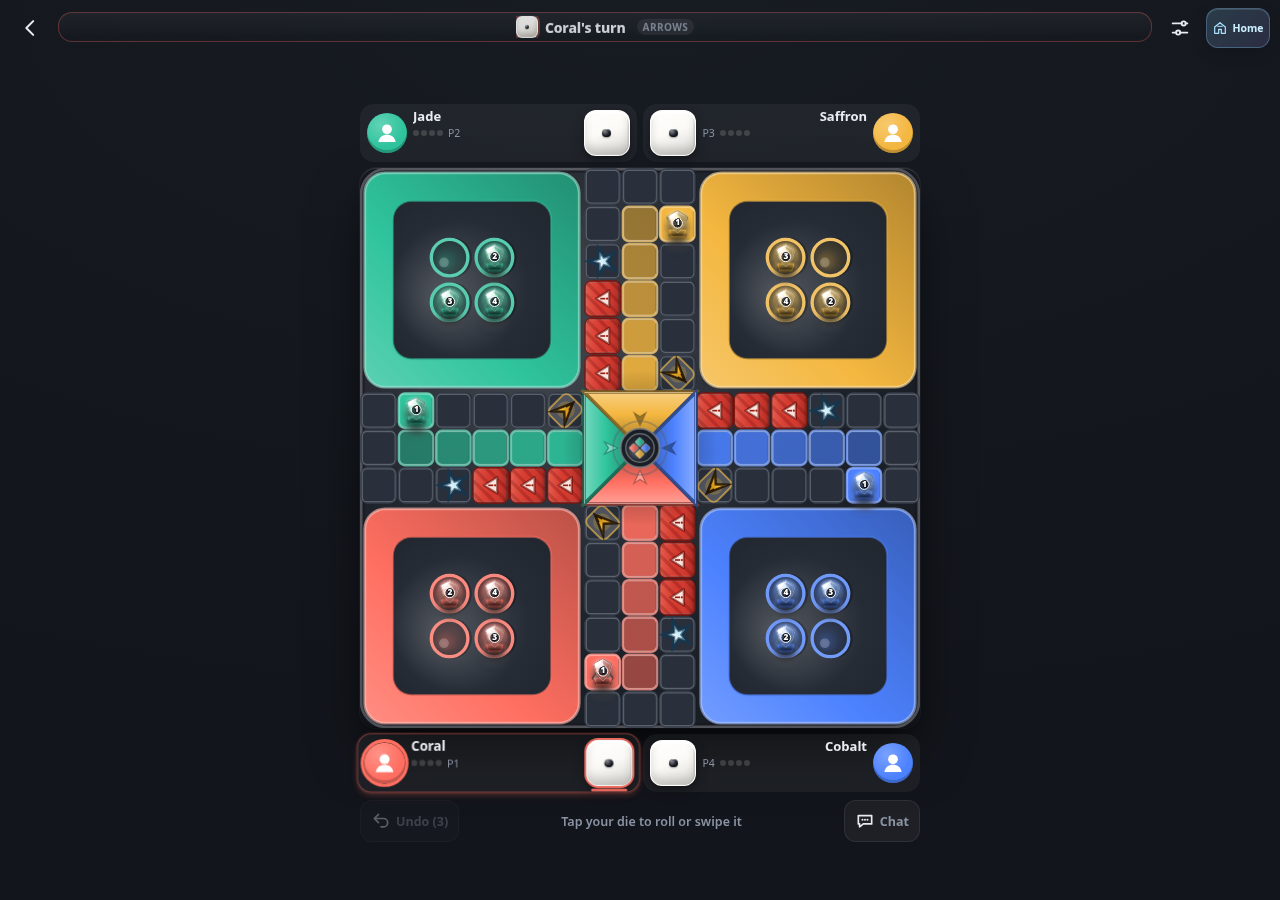
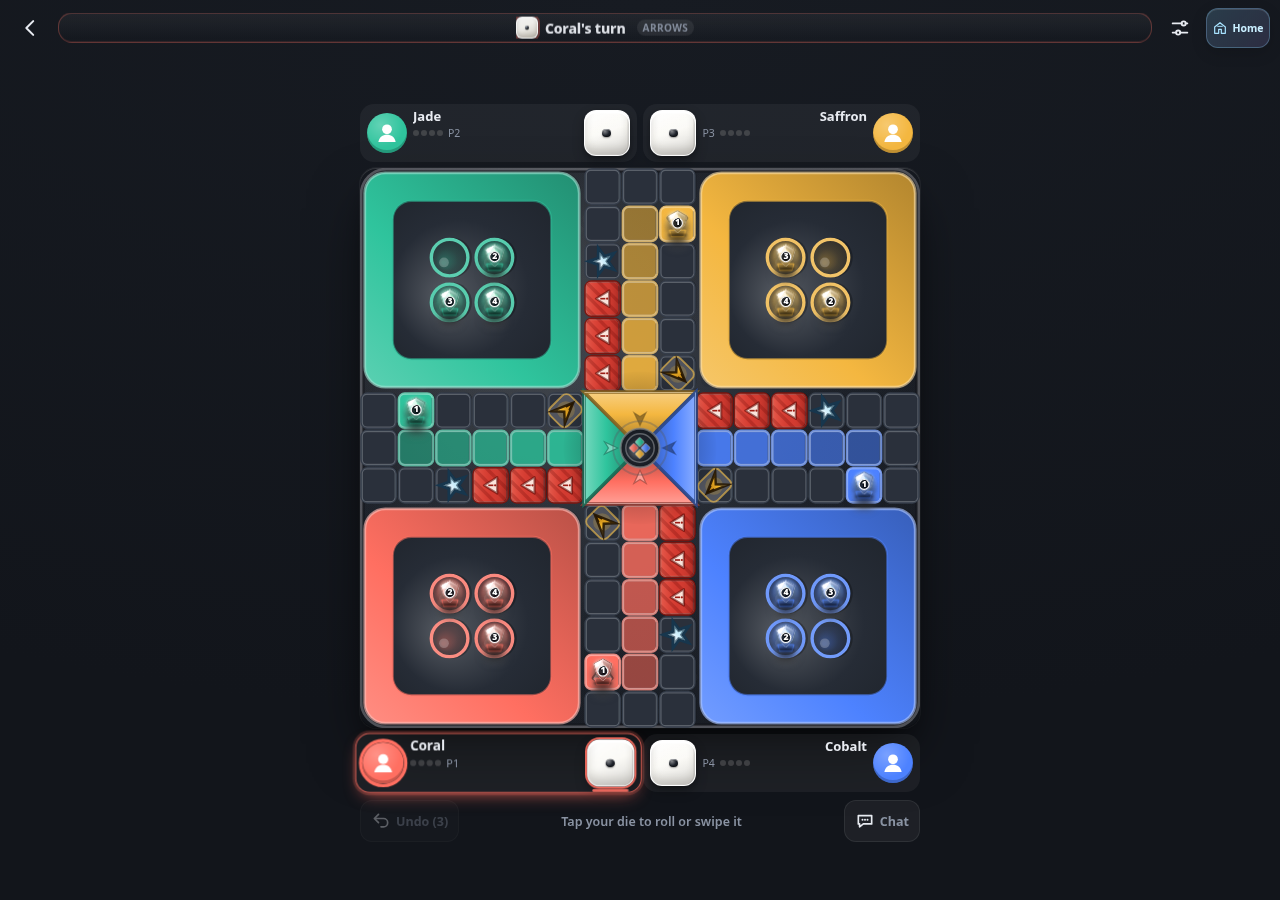
Polish shared Ludo tokens and preserve hitboxes

Changed region(s): [[0.25, 0.8089, 0.5, 0.9022], [0.4062, 0.0, 0.5312, 0.0622]]

diff --git a/test/shared-ludo-board.browser.test.js b/test/shared-ludo-board.browser.test.js
@@ -79,8 +79,6 @@ function contrast(a, b) {
           document.body.classList.toggle('light', !theme.dark);
           window.__cf.layout();
         });
-        if (capture) await page.screenshot({ path: path.join(shotDir, capture), fullPage: false });
-
       const result = await page.evaluate(() => {
         const c = window.__cf, logic = c.logic, game = c.game;
         const canvas = document.getElementById('board'), context = canvas.getContext('2d');
@@ -104,6 +102,17 @@ function contrast(a, b) {
         const tokenBox = rect(token);
         const digit = document.querySelector('#pieces .gem-num');
         const badge = document.querySelector('#pieces .gem-num-disc');
+        const tokenTargets = [...document.querySelectorAll('#pieces .pc')].map(element => {
+          const box = rect(element), point = c.piecePoint(+element.dataset.seat, +element.dataset.piece);
+          return {
+            seat: +element.dataset.seat, piece: +element.dataset.piece,
+            width: box.width, height: box.height,
+            centerMatches: !!point && Math.abs(box.left + box.width / 2 - point.x) < 0.75 && Math.abs(box.top + box.height / 2 - point.y) < 0.75,
+            button: element.tagName === 'BUTTON', disabled: element.disabled,
+            label: element.getAttribute('aria-label'),
+            color: getComputedStyle(element).getPropertyValue('--pc').trim()
+          };
+        });
         return {
           mode: game.st.mode,
           players: game.st.players.length,
@@ -123,6 +132,7 @@ function contrast(a, b) {
           homeColor,
           tokenWidth: tokenBox.width,
           tokenHeight: tokenBox.height,
+          tokenTargets,
           cell: boardRect.width / 15,
           tokenNumberSize: parseFloat(getComputedStyle(digit).fontSize),
           tokenBadgeFill: getComputedStyle(badge).fill,
@@ -130,6 +140,29 @@ function contrast(a, b) {
           screenSize: [innerWidth, innerHeight]
         };
       });
+        if (width === 390 && entry.kind === 'ai' && entry.mode === 'classic') {
+          await page.evaluate(() => window.__cf.edit(st => {
+            st.turn = 0; st.phase = 'move'; st.queue = [3]; st.pieces[0][0] = 4;
+          }));
+          await page.waitForSelector('#game .pod[data-seat="0"] .chip-v[data-v="3"]');
+          const movable = await page.evaluate(() => {
+            const element = document.querySelector('#pieces .pc[data-seat="0"][data-piece="0"]'), box = element.getBoundingClientRect();
+            return { can: element.classList.contains('can'), turn: element.classList.contains('is-turn'), disabled: element.disabled, label: element.getAttribute('aria-label'), pointerEvents: getComputedStyle(element).pointerEvents, width: box.width };
+          });
+          result.movable = movable;
+          await page.click('#game .pod[data-seat="0"] .chip-v[data-v="3"]');
+          await new Promise(resolve => setTimeout(resolve, 180));
+          result.selected = await page.evaluate(() => {
+            const element = document.querySelector('#pieces .pc[data-seat="0"][data-piece="0"]'), box = element.getBoundingClientRect();
+            return { can: element.classList.contains('can'), selected: element.classList.contains('sel'), disabled: element.disabled, label: element.getAttribute('aria-label'), width: box.width, ring: getComputedStyle(element, '::before').boxShadow };
+          });
+          await page.emulateMediaFeatures([{ name: 'prefers-reduced-motion', value: 'reduce' }]);
+          result.reducedMotion = await page.evaluate(() => {
+            const element = document.querySelector('#pieces .pc[data-seat="0"][data-piece="0"]');
+            return { ring: getComputedStyle(element, '::before').animationName, core: getComputedStyle(element.querySelector('.gem-core')).animationName };
+          });
+        }
+        if (capture) await page.screenshot({ path: path.join(shotDir, capture), fullPage: false });
         return result;
       } finally {
         await session.context.close();
@@ -158,14 +191,27 @@ function contrast(a, b) {
         ok(!board.podOverlap && board.podBounds && board.noDocumentOverflow, viewport.width + '×' + viewport.height + ': ' + entry.label + ' has no board/pod overlap or viewport overflow');
         ok(board.chessHidden, viewport.width + '×' + viewport.height + ': ' + entry.label + ' remains on Ludo, not the separate Chess board');
         ok(board.tokenWidth > board.cell * 0.75 && board.tokenWidth < board.cell * 0.77 && Math.abs(board.tokenWidth - board.tokenHeight) < 0.5, viewport.width + '×' + viewport.height + ': ' + entry.label + ' keeps the original token touch-target size');
-        ok(board.tokenNumberSize >= 7 && /rgba\(8, 14, 22, 0\.72\)/.test(board.tokenBadgeFill), viewport.width + '×' + viewport.height + ': ' + entry.label + ' exposes the higher-contrast token identity badge');
+        ok(board.tokenNumberSize >= 7.3 && /rgba\(7, 12, 20, 0\.82\)/.test(board.tokenBadgeFill), viewport.width + '×' + viewport.height + ': ' + entry.label + ' exposes the double-lipped high-contrast token identity badge');
+        ok(board.tokenTargets.length === board.pieceCount && board.tokenTargets.every(token => token.button && token.centerMatches && Math.abs(token.width / board.cell - 0.76) < 0.015 && Math.abs(token.height / board.cell - 0.76) < 0.015), viewport.width + '×' + viewport.height + ': ' + entry.label + ' preserves every token hitbox size and canvas hit-point center');
+        ok(board.tokenTargets.every(token => /token [1-4]/.test(token.label || '') && /in base|on the track|in home lane|home/.test(token.label || '')), viewport.width + '×' + viewport.height + ': ' + entry.label + ' exposes readable seat, number, and position labels');
+        if (board.movable) {
+          const base = board.tokenTargets.find(token => token.seat === 0 && token.piece === 0);
+          ok(board.movable.can && board.movable.turn && !board.movable.disabled && board.movable.pointerEvents === 'auto' && /movable, select to move/.test(board.movable.label), 'Classic exposes an enabled, labeled movable crystal token');
+          ok(Math.abs(board.movable.width / base.width - 1.05) < 0.025, 'movable-state emphasis preserves the original token hitbox scaling');
+          ok(board.selected.can && board.selected.selected && !board.selected.disabled && /select to move/.test(board.selected.label) && board.selected.ring !== 'none', 'selected token remains operable, labeled, and distinctly ringed: ' + JSON.stringify(board.selected));
+          ok(Math.abs(board.selected.width / base.width - 1.05) < 0.025, 'selected-state ring preserves the original movable-token hitbox scaling');
+          ok(board.reducedMotion.ring === 'none' && board.reducedMotion.core === 'none', 'reduced motion removes token ring and crystal-core animation');
+        }
         if (entry.mode === 'mystery' || entry.mode === 'lucky') ok(board.hasMysteryTiles, viewport.width + '×' + viewport.height + ': ' + entry.label + ' keeps tile effects in the separate overlay');
         if (!reference) reference = board;
         else {
           ok(Math.abs(board.board.width - reference.board.width) < 0.5 && Math.abs(board.board.height - reference.board.height) < 0.5, viewport.width + '×' + viewport.height + ': ' + entry.label + ' uses the same board geometry as Classic');
+          ok(board.tokenTargets.every(token => Math.abs(token.width / board.cell - reference.tokenTargets[0].width / reference.cell) < 0.015 && Math.abs(token.height / board.cell - reference.tokenTargets[0].height / reference.cell) < 0.015), viewport.width + '×' + viewport.height + ': ' + entry.label + ' matches Classic token hit-target dimensions');
           ok(contrast(board.safeContrast, board.normalTrack) >= 2.2, viewport.width + '×' + viewport.height + ': ' + entry.label + ' keeps safe-space markings distinct from ordinary track');
         }
         if (entry.mode === 'classic' && entry.kind === 'ai') {
+          const playerColors = board.tokenTargets.filter(token => token.piece === 0).map(token => token.color);
+          ok(new Set(playerColors).size === 4, viewport.width + '×' + viewport.height + ': all four crystal tokens use distinct player colors');
           const uniqueStartColors = board.startColors.every((color, index) => board.startColors.slice(index + 1).every(other => Math.hypot(color[0] - other[0], color[1] - other[1], color[2] - other[2]) > 25));
           ok(uniqueStartColors, viewport.width + '×' + viewport.height + ': all four player entry colors remain visually distinct');
           ok(Math.hypot(board.homeColor[0] - board.normalTrack[0], board.homeColor[1] - board.normalTrack[1], board.homeColor[2] - board.normalTrack[2]) > 30, viewport.width + '×' + viewport.height + ': the home lane remains distinct from the main track');
@@ -222,15 +268,26 @@ function contrast(a, b) {
       await page.waitForFunction(() => window.__cf && window.__cf.game && window.__cf.game.online && !document.getElementById('game').classList.contains('hidden'));
       const onlineBoard = await page.evaluate(() => {
         const rect = document.getElementById('board-wrap').getBoundingClientRect();
+        const cell = rect.width / 15;
+        const tokens = [...document.querySelectorAll('#pieces .pc')].map(element => {
+          const box = element.getBoundingClientRect(), point = window.__cf.piecePoint(+element.dataset.seat, +element.dataset.piece);
+          return { seat: +element.dataset.seat, piece: +element.dataset.piece, width: box.width, height: box.height, centerMatches: !!point && Math.abs(box.left + box.width / 2 - point.x) < 0.75 && Math.abs(box.top + box.height / 2 - point.y) < 0.75, can: element.classList.contains('can'), selected: element.classList.contains('sel'), label: element.getAttribute('aria-label'), color: getComputedStyle(element).getPropertyValue('--pc').trim() };
+        });
         return {
           canvas: document.getElementById('board').tagName,
           width: rect.width,
           height: rect.height,
-          tokens: document.querySelectorAll('#pieces .pc').length,
+          tokens,
+          cell,
           chessHidden: document.getElementById('online-chess-screen').classList.contains('hidden')
         };
       });
-      ok(onlineBoard.canvas === 'CANVAS' && onlineBoard.tokens === 8 && onlineBoard.chessHidden, 'online Classic uses the same Ludo canvas, not the separate Chess board');
+      ok(onlineBoard.canvas === 'CANVAS' && onlineBoard.tokens.length === 8 && onlineBoard.chessHidden, 'online Classic uses the same Ludo canvas, not the separate Chess board');
+      ok(onlineBoard.tokens.every(token => {
+        const lower = 0.76 * (token.can ? 1.05 : 1), upper = 0.76 * (token.can ? 1.12 : 1);
+        return token.width / onlineBoard.cell >= lower - 0.015 && token.width / onlineBoard.cell <= upper + 0.015 && token.height / onlineBoard.cell >= lower - 0.015 && token.height / onlineBoard.cell <= upper + 0.015 && token.centerMatches;
+      }), 'online Classic preserves each shared hitbox size and center, including its existing move emphasis');
+      ok(onlineBoard.tokens.every(token => /token [1-4]/.test(token.label || '')) && new Set(onlineBoard.tokens.filter((_, index) => index % 4 === 0).map(token => token.color)).size === 2, 'online Classic keeps accessible token identities and distinct seat colors');
       ok(Math.abs(onlineBoard.width - localBoard.width) < 0.5 && Math.abs(onlineBoard.height - localBoard.height) < 0.5, 'online Classic preserves the local shared-board geometry');
     } finally {
       await paletteSession.context.close();

diff --git a/www/css/style.css b/www/css/style.css
@@ -340,6 +340,7 @@ body.light .seg { background: rgba(0,0,0,.06); }
 .pc .gem-facet-dark { fill: var(--pcdd); fill-opacity: .88; }
 .pc .gem-facet-side { fill: var(--pcd); fill-opacity: .8; }
 .pc .gem-facet-base { fill: var(--pcdd); fill-opacity: .72; }
+.pc .gem-refraction { fill: rgba(255,255,255,.14); stroke: rgba(255,255,255,.28); stroke-width: .3; }
 .pc .gem-core { fill: var(--pccore); opacity: .9; filter: drop-shadow(0 0 4px var(--pccore)) drop-shadow(0 0 7px rgba(255,255,255,.38)); animation: gem-core-breathe 2.8s ease-in-out infinite; animation-delay: var(--jugnu-delay, 0s); }
 .pc.is-turn .gem-core { animation-duration: 2.1s; }
 @keyframes gem-core-breathe { 0%, 100% { opacity: .55; } 50% { opacity: 1; } }
@@ -353,9 +354,10 @@ body.light .seg { background: rgba(0,0,0,.06); }
 .pc .gem-jugnu-glow { opacity: .55; mix-blend-mode: screen; animation: jugnu-glow 3.2s ease-in-out infinite; animation-delay: var(--jugnu-delay, 0s); pointer-events: none; }
 @keyframes jugnu-pulse { 0%, 100% { opacity: .28; transform: translate(-50%, -50%) scale(.92); } 50% { opacity: .58; transform: translate(-50%, -50%) scale(1.08); } }
 @keyframes jugnu-glow { 0%, 100% { opacity: .32; } 50% { opacity: .72; } }
-/* Token id 1–4: a deeper crystal badge keeps the outlined numeral legible on every seat color. */
-.pc .gem-num-disc { fill: rgba(8, 14, 22, .72); stroke: rgba(255,255,255,.98); stroke-width: .82; }
-.pc .gem-num { fill: #fff; font-family: Inter, system-ui, "Segoe UI", sans-serif; font-size: 7.1px; font-weight: 900; letter-spacing: -.04em;
+/* Token id 1–4: a double-lipped dark glass bezel keeps numerals crisp on every seat color. */
+.pc .gem-num-rim { fill: rgba(8,14,22,.16); stroke: rgba(255,255,255,.58); stroke-width: .52; }
+.pc .gem-num-disc { fill: rgba(7, 12, 20, .82); stroke: rgba(255,255,255,.98); stroke-width: .9; }
+.pc .gem-num { fill: #fff; font-family: Inter, system-ui, "Segoe UI", sans-serif; font-size: 7.35px; font-weight: 900; letter-spacing: -.04em;
   paint-order: stroke fill; stroke: rgba(5,8,14,.98); stroke-width: 1.35px; stroke-linejoin: round; dominant-baseline: alphabetic; pointer-events: none; }
 .pc.is-frozen .jugnu, .pc.is-frozen .gem-jugnu-glow { animation: none; opacity: .12; }
 .pc.done .jugnu { opacity: .35; filter: blur(2px) saturate(1.2); }
@@ -370,11 +372,14 @@ body.light .seg { background: rgba(0,0,0,.06); }
 .pc.is-frozen .gem-frost-wash, .pc.is-frozen .gem-frost-crack { opacity: 1; }
 .pc.hop { transition-timing-function: cubic-bezier(.2,.9,.3,1.3); z-index: 6; }
 .pc.can { pointer-events: auto; cursor: pointer; z-index: 5; }
-.pc.can .gem-token { filter: drop-shadow(0 6px 2.8px rgba(0,0,0,.5)) drop-shadow(0 0 0 3px rgba(255,255,255,.78)) drop-shadow(0 0 10px rgba(255,255,255,.22)) drop-shadow(0 1px 0 rgba(255,255,255,.34)); }
+.pc.can .gem-token { filter: drop-shadow(0 7px 3px rgba(0,0,0,.52)) drop-shadow(0 0 3px rgba(255,255,255,.92)) drop-shadow(0 0 9px var(--pc)) drop-shadow(0 1px 0 rgba(255,255,255,.34)); }
+.pc.can .gem-core { opacity: 1; animation-duration: 1.7s; }
+.pc.can .gem-num-disc { stroke-width: 1.05; }
 .pc.is-turn { z-index: 6; }
-.pc.is-turn::before { content: ""; position: absolute; inset: -22%; border-radius: 50%; border: 2.5px solid #fff; box-shadow: 0 0 0 3px var(--pc), 0 0 18px var(--pc), 0 6px 10px rgba(0,0,0,.22); animation: token-ring 1.15s ease-in-out infinite; pointer-events: none; z-index: 4; }
+.pc.is-turn::before { content: ""; position: absolute; inset: -24%; border-radius: 50%; border: 2.5px solid rgba(255,255,255,.98); box-shadow: 0 0 0 2px var(--pc), 0 0 17px var(--pc), 0 6px 10px rgba(0,0,0,.24); animation: token-ring 1.25s ease-in-out infinite; pointer-events: none; z-index: 4; }
 .pc.sel { z-index: 7; }
-.pc.sel::before { content: ""; position: absolute; inset: -30%; border-radius: 50%; border: 3px solid #fff; box-shadow: 0 0 0 4px var(--accent), 0 0 22px var(--accent), 0 10px 16px rgba(0,0,0,.32); animation: token-ring .8s ease-in-out infinite; pointer-events: none; }
+.pc.sel::before { content: ""; position: absolute; inset: -30%; border-radius: 50%; border: 3px solid #fff; background: rgba(255,255,255,.035); box-shadow: 0 0 0 4px var(--accent), 0 0 22px var(--accent), 0 10px 16px rgba(0,0,0,.32); animation: token-ring .8s ease-in-out infinite; pointer-events: none; }
+.pc.sel .gem-num-disc { fill: rgba(5,9,16,.9); stroke: #fff; stroke-width: 1.1; }
 .pc.sel .gem-token { filter: drop-shadow(0 11px 5px rgba(0,0,0,.58)) drop-shadow(0 3.5px 1.8px rgba(0,0,0,.38)) drop-shadow(0 0 12px rgba(255,255,255,.38)) drop-shadow(0 0 0 2px rgba(255,255,255,.55)); }
 .pc:focus-visible { outline: 3px solid var(--accent); outline-offset: 3px; z-index: 8; }
 @keyframes token-ring { 0%, 100% { transform: scale(.9); opacity: 1; } 50% { transform: scale(1.1); opacity: .48; } }

diff --git a/www/js/game.js b/www/js/game.js
@@ -675,12 +675,14 @@
           '<path class="gem-facet gem-facet-dark" d="M12 1.1 19.2 5 17 12.6 12 13.6Z"/>' +
           '<path class="gem-facet gem-facet-side" d="M7 12.6 12 13.6 9.5 16.3Z"/>' +
           '<path class="gem-facet gem-facet-base" d="M7 12.6 12 13.6 17 12.6 12 18.7Z"/>' +
+          '<path class="gem-refraction" d="M12 1.55 18.45 5.25 16.55 11.85 12 13.1Z"/>' +
           '<path class="gem-sheen" style="fill:url(#gem-sheen-' + s + '-' + i + ')" d="M12 1.1 19.2 5 17 12.6 12 18.7 7 12.6 4.8 5Z"/>' +
           '<path class="gem-bevel" style="stroke:url(#gem-metal-' + s + '-' + i + ')" d="M12 1.7 18.4 5.25 16.5 12.2 12 17.5 7.5 12.2 5.6 5.25Z"/>' +
           '<ellipse class="gem-core" style="fill:url(#gem-core-' + s + '-' + i + ')" cx="12" cy="8.85" rx="3.35" ry="4.35"/>' +
           '<ellipse class="gem-glint-soft" cx="8.85" cy="5.9" rx="3.9" ry="2.45"/>' +
           '<path class="gem-glint" d="M5.75 4.95 10.65 2.4 8.4 6.85 6.45 7.5Z"/>' +
           '<path class="gem-spec" d="M7.05 3.75 11.2 1.95 10.6 3.4 7.95 4.95Z"/>' +
+          '<circle class="gem-num-rim" cx="12" cy="11.15" r="4.78"/>' +
           '<circle class="gem-num-disc" cx="12" cy="11.15" r="4.15"/>' +
           '<text class="gem-num" x="12" y="13.05" text-anchor="middle">' + tokNum + '</text>' +
           '<circle class="gem-shield" cx="12" cy="10.2" r="9.3"/>' +
@@ -951,7 +953,7 @@
         var canMove = pieceMoves.some(function (m) { return m.seat === s && m.piece === i; });
         pc.disabled = !canMove;
         pc.classList.toggle('is-turn', canMove);
-        pc.setAttribute('aria-label', nameOf(s) + ' token ' + (i + 1) + ', ' + place + (canMove ? ', select to move' : ''));
+        pc.setAttribute('aria-label', nameOf(s) + ' token ' + (i + 1) + ', ' + place + (canMove ? ', movable, select to move' : ''));
       });
     });
     var s = cur, lbl = $('turn-label'), banner = $('turn-banner');
@@ -1036,7 +1038,7 @@
     $('hint').textContent = 'Pick ' + moves.map(function (m) { return m.v; }).join(' or ') + ' for this token';
   }
   function handleTokenTap(seat, piece, keyboard) {
-    if (!G || busy || paused || G.st.phase !== 'move' || !isHuman(G.st.turn) || G.online) return false;
+    if (!G || busy || paused || G.st.phase !== 'move' || !isHuman(G.st.turn)) return false;
     var opts = tokenDieMoves(seat, piece);
     if (!opts.length) return false;
     // Multi-die for this token: open the premium picker (overrides chip selection).

diff --git a/test/online-classic.browser.test.js b/test/online-classic.browser.test.js
@@ -82,7 +82,9 @@ function startLocalServer() {
       textHidden: document.querySelector('#online-match-pieces').classList.contains('hidden'),
       timer: document.querySelector('#online-turn-timer').textContent,
       grace: document.querySelector('#online-grace').textContent,
-      piece: document.querySelector('#pieces .pc[data-seat="0"][data-piece="0"]') && !document.querySelector('#pieces .pc[data-seat="0"][data-piece="0"]').disabled
+      piece: document.querySelector('#pieces .pc[data-seat="0"][data-piece="0"]') && !document.querySelector('#pieces .pc[data-seat="0"][data-piece="0"]').disabled,
+      pieceLabel: document.querySelector('#pieces .pc[data-seat="0"][data-piece="0"]').getAttribute('aria-label'),
+      target: (() => { const element = document.querySelector('#pieces .pc[data-seat="0"][data-piece="0"]'), rect = element.getBoundingClientRect(), point = window.__cf.piecePoint(0, 0); return { width: rect.width, height: rect.height, cell: parseFloat(getComputedStyle(document.documentElement).getPropertyValue('--cell')), centered: !!point && Math.abs(rect.left + rect.width / 2 - point.x) < 0.75 && Math.abs(rect.top + rect.height / 2 - point.y) < 0.75, x: rect.left + rect.width / 2, y: rect.top + rect.height / 2 }; })()
     }));
     assert.equal(board.game, true);
     assert.equal(board.canvas, true);
@@ -90,7 +92,10 @@ function startLocalServer() {
     assert.match(board.timer, /s$/);
     assert.match(board.grace, /Reconnect window/);
     assert.equal(board.piece, true, 'a legal token is tappable');
-    await page.evaluate(() => document.querySelector('#pieces .pc[data-seat="0"][data-piece="0"]').click());
+    assert.match(board.pieceLabel, /You token 1, on the track, movable, select to move/, 'online Classic token has a readable move-state label');
+    const moveScale = board.target.width / board.target.cell;
+    assert.ok(moveScale >= 0.76 * 1.05 - 0.015 && moveScale <= 0.76 * 1.12 + 0.015 && Math.abs(board.target.height / board.target.cell - moveScale) < 0.015 && board.target.centered, 'online Classic retains the shared selected-token hitbox dimensions and center');
+    await page.touchscreen.tap(board.target.x, board.target.y);
     const moved = await page.evaluate(() => window.__moves.slice());
     assert.deepEqual(moved, [[0, 0]], 'canvas tap sends the legal queue index');
     await page.evaluate(() => {
